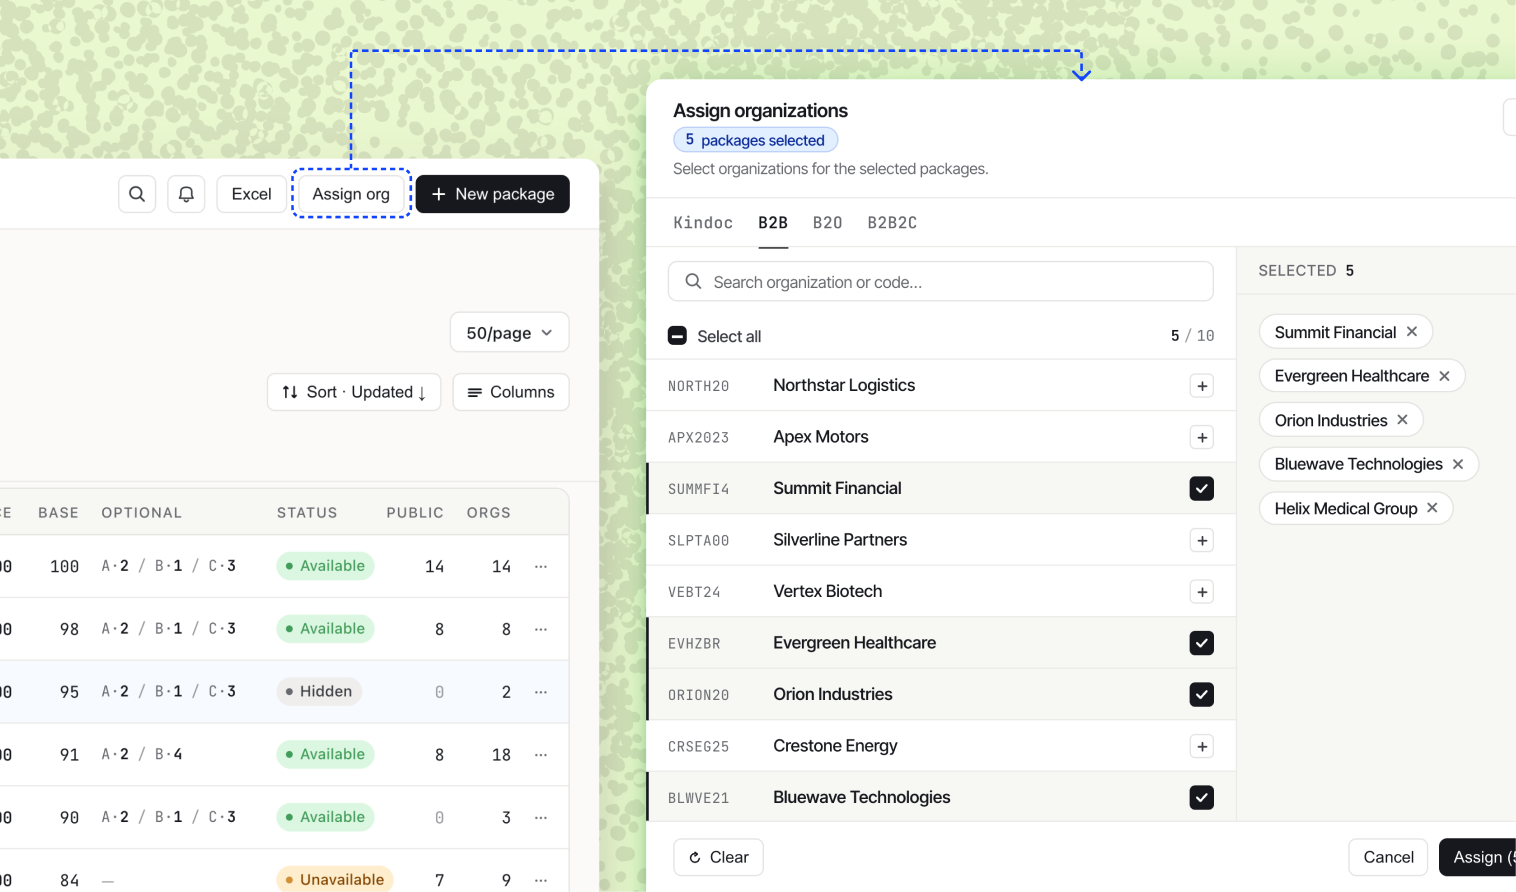
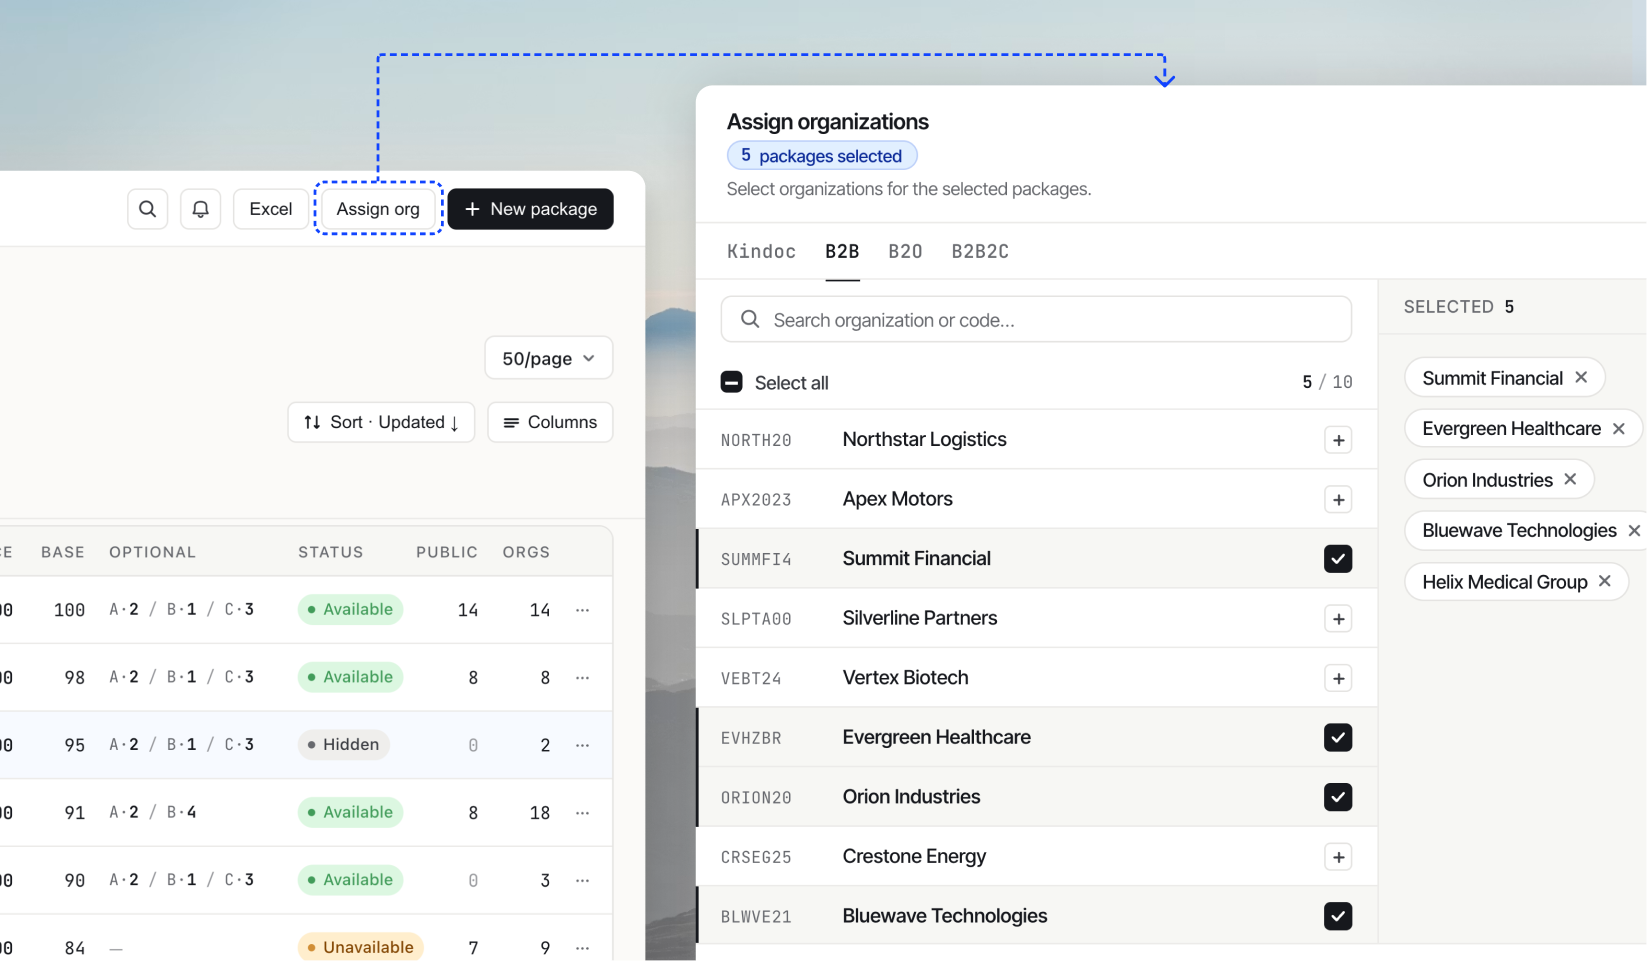
Update backoffice bulk_modal image and widen narrow shot to 86%

diff --git a/assets/css/case.css b/assets/css/case.css
@@ -959,7 +959,7 @@
 }
 
 .raw-shot--narrow {
-  max-width: 85%;
+  max-width: 86%;
 }
 /* Zoomable UI screenshots */
 .zoomable { cursor: zoom-in; }